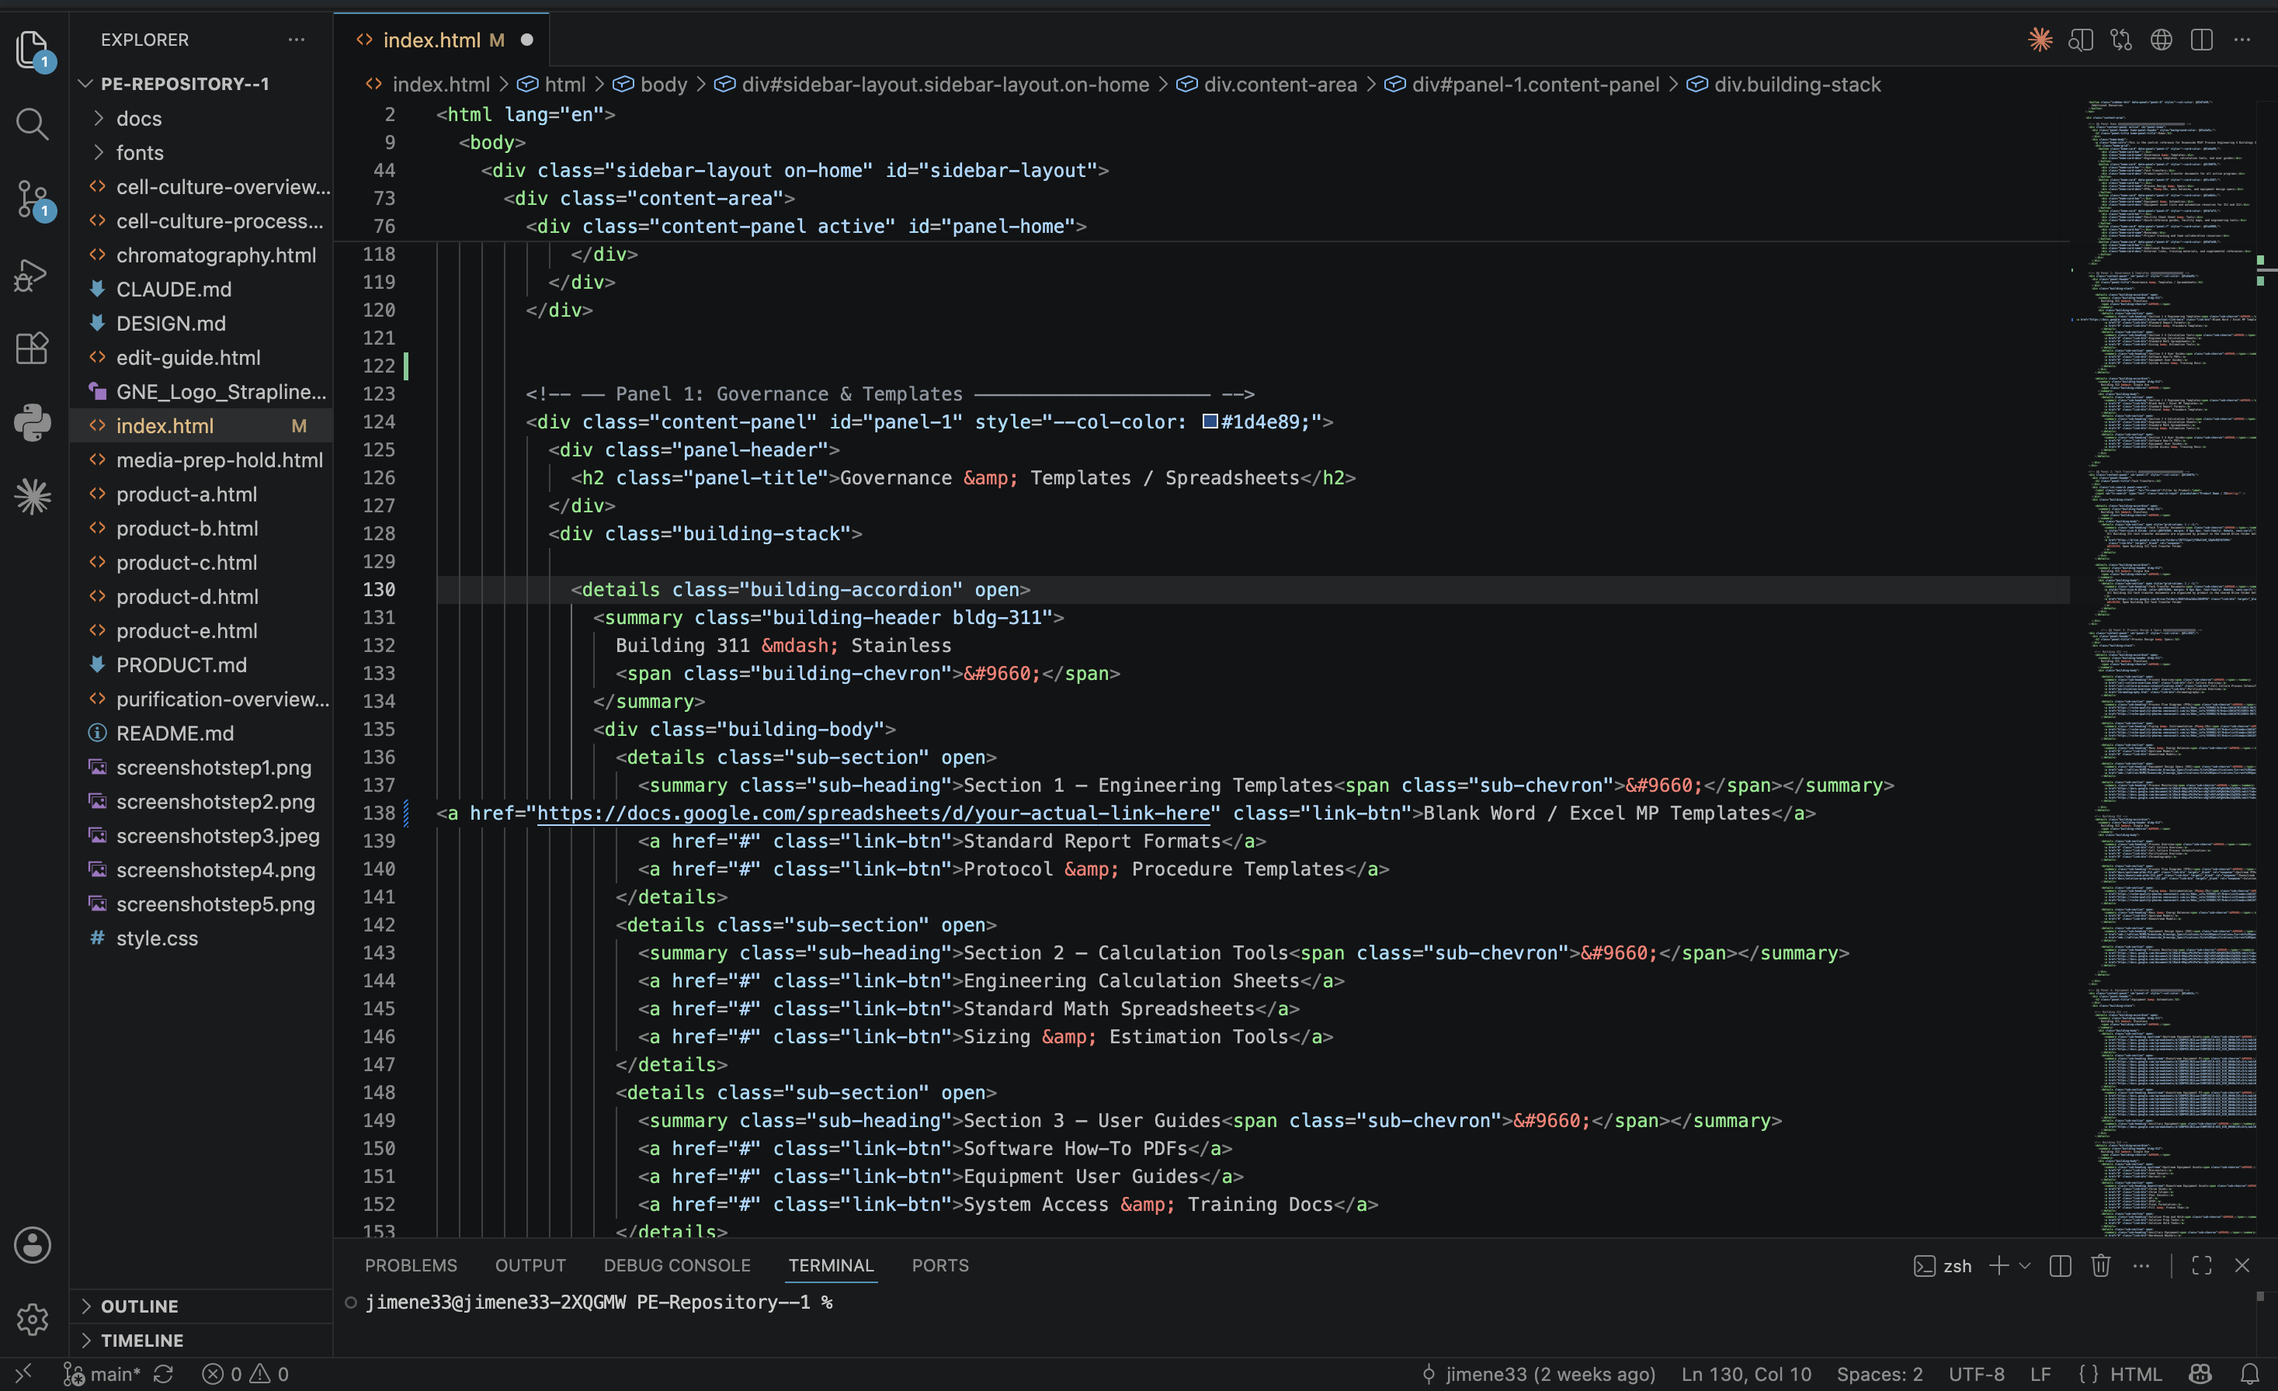
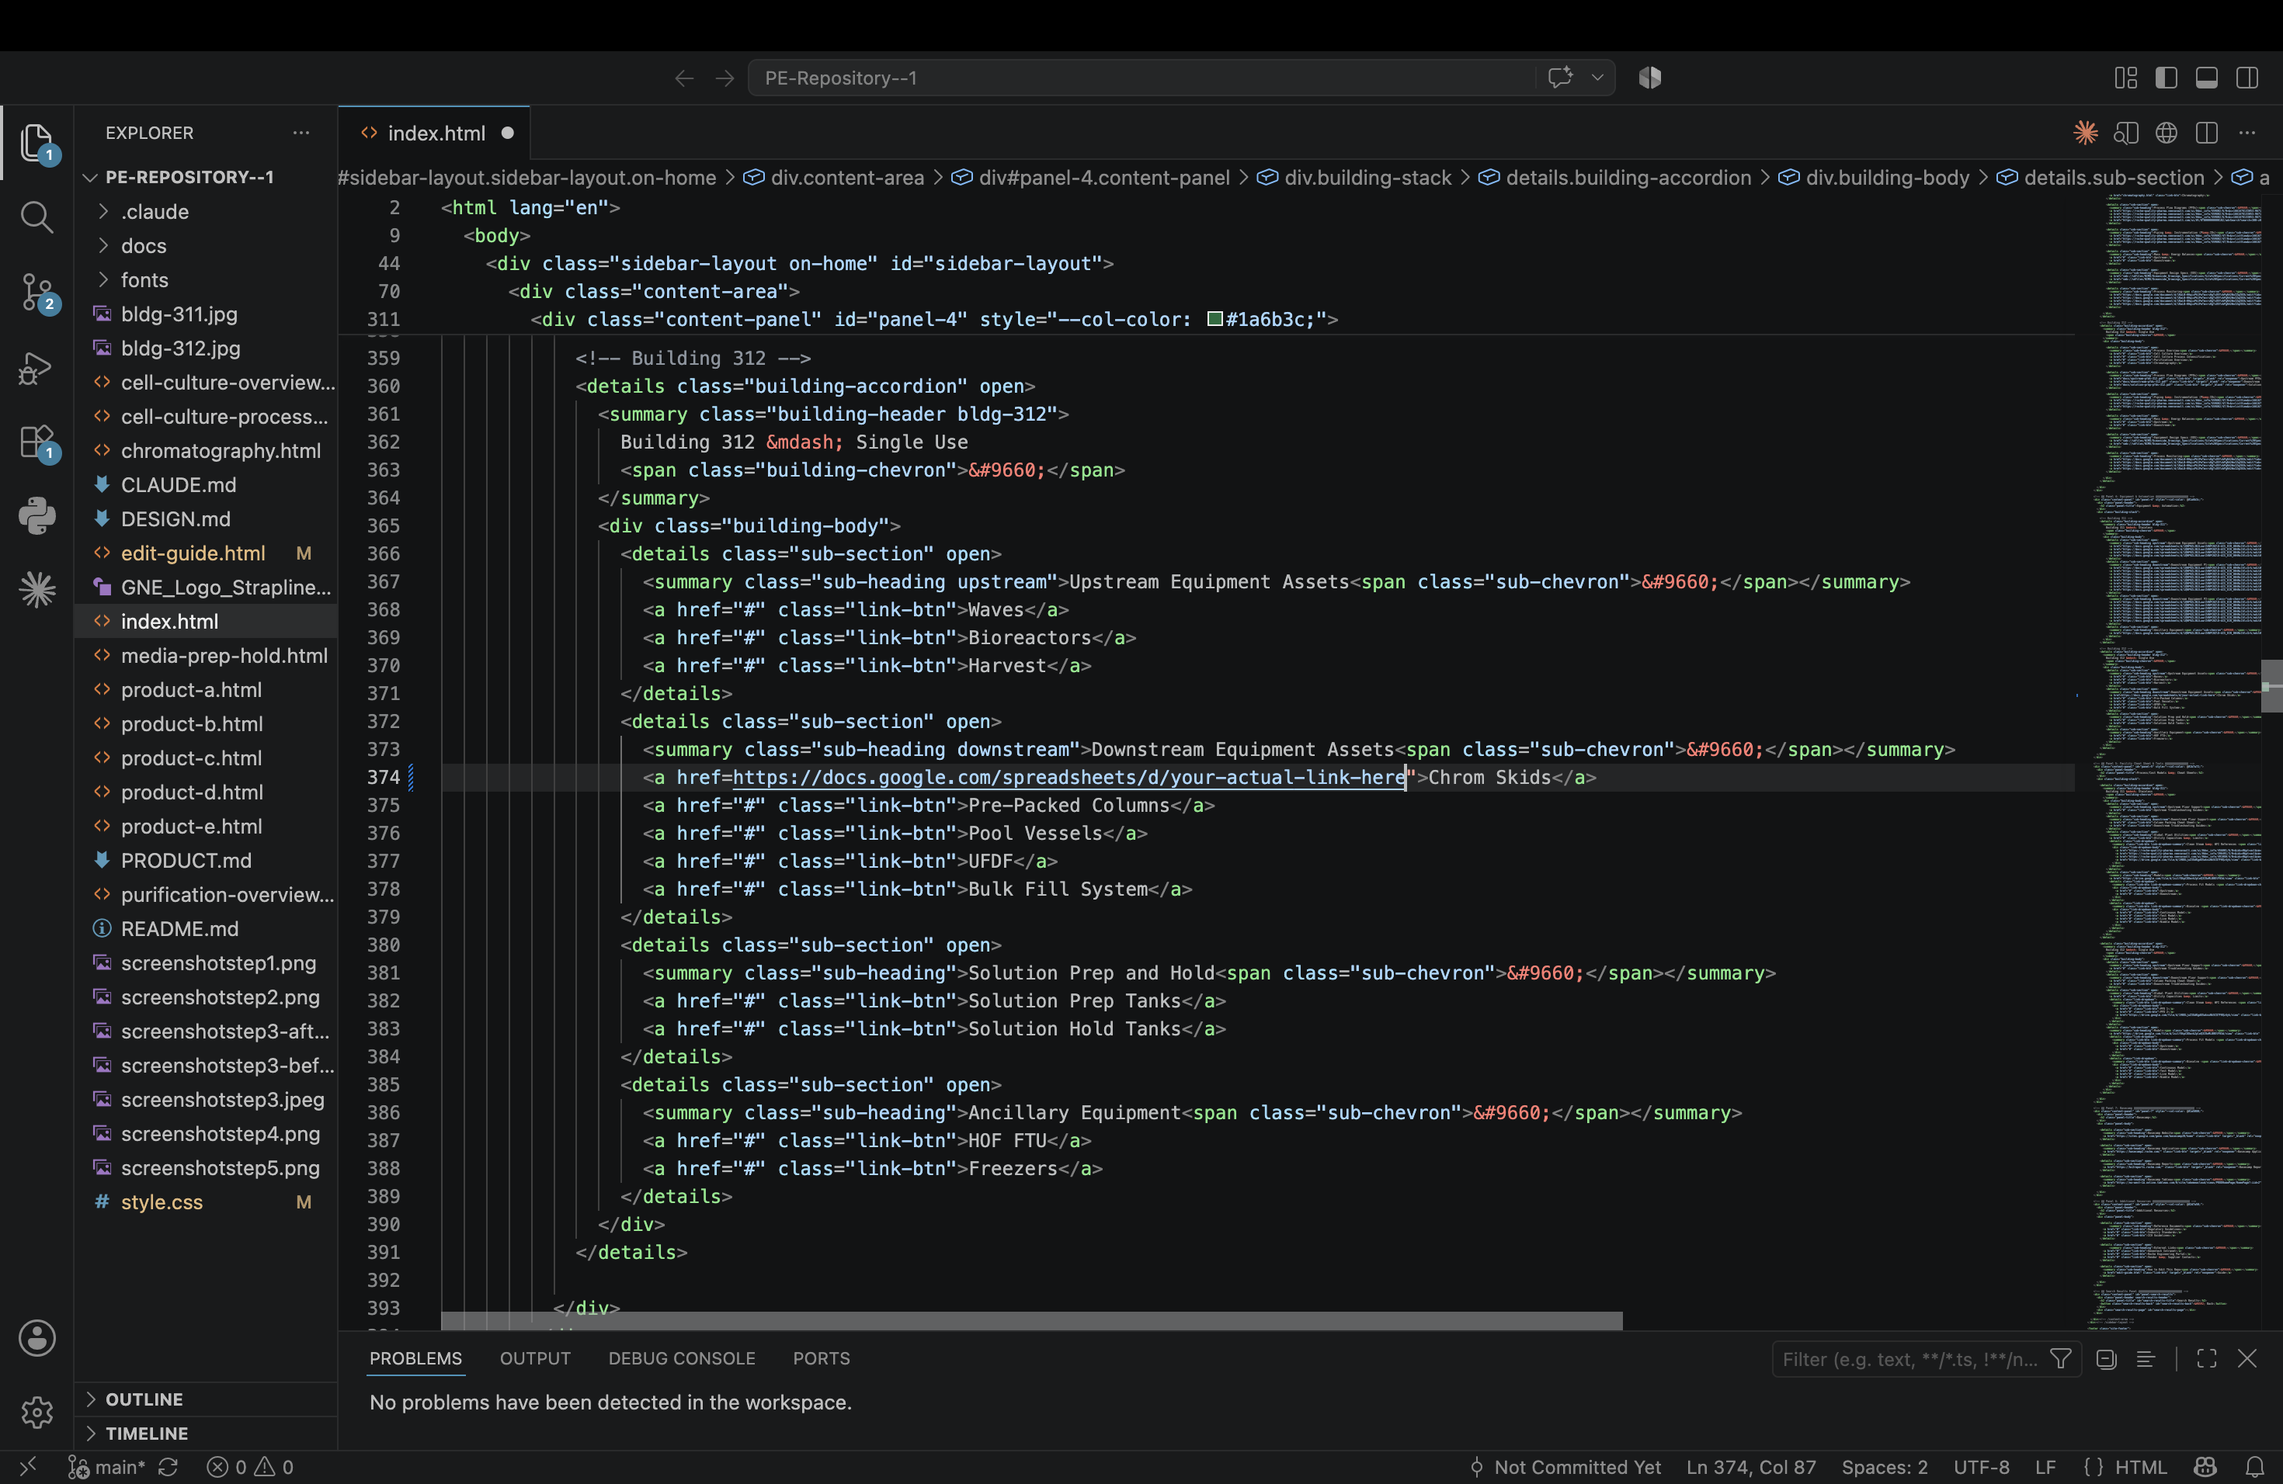
Annotate the edit guide screenshots and tighten the home page
The guide's screenshots showed the right screens but never pointed at
anything — a first-time editor had to match prose against a full VS
Code window. Every step now carries numbered rings and callouts.

The marks are HTML laid over the images, not painted into the PNGs, so
a shot can be re-taken without anyone redrawing annotations, and they
stay sharp at any zoom. Positions are percentages of the image, so
they track it as it scales. --mark (#d93a2b) is scoped to .guide-page:
it has to read on both the dark VS Code shots and the light browser
pane, which the guide's green cannot, and it stays out of the site's
panel-color system. Rings carry a white halo on both sides of the
stroke so they survive whatever they land on.

Steps 1, 2, 5, and 6 get numbered tags. The Step 3 before/after pair
renders at half width, where a tag would be wider than the shot it
sits on, so those carry rings only. Step 4 gains a zoomed crop of the
"after" shot — the tab strip alone — so it can point at the unsaved
dot it describes. Below 520px a tag is wider than the image it labels;
tags hide there and the rings still point at the right thing. Both
Step 3 screenshots re-shot.

Home page: the section band, photos, and intake line now clear the
fold on a 1080p screen. The photos are the biggest single block, so
they set the budget — clamp(320px, 36vh, 560px), down from
clamp(480px, 60vh, 820px). The crop and fade mask are both
percentage-based, so the framing holds across the new range. Page
[…]

diff --git a/edit-guide.html b/edit-guide.html
@@ -78,6 +78,107 @@
         color: #9aa0a6;
         margin: 12px 0;
       }
+
+      /* --- Screenshot annotations ----------------------------------------
+         The rings and labels are HTML laid over the images, not painted into
+         the PNGs — a screenshot can be re-shot without anyone redrawing
+         anything, and the marks stay sharp at any zoom. Every position is a
+         percentage of the image, so they track it as it scales.
+         --mark is an annotation-only colour scoped to this page. It has to
+         read on both the dark VS Code shots and the light browser pane, which
+         the guide's green cannot do. */
+      .guide-page { --mark: #d93a2b; }
+      .guide-shot {
+        position: relative;
+        display: block;
+        margin: 12px 0;
+        line-height: 0;
+      }
+      .guide-shot img {
+        width: 100%;
+        display: block;
+        border-radius: 6px;
+        border: 1px solid #dadce0;
+      }
+      .shot-mark {
+        position: absolute;
+        border: 3px solid var(--mark);
+        border-radius: 999px;
+        /* Halo on both sides of the stroke so the ring survives whatever it
+           lands on — dark editor chrome or a white page. */
+        box-shadow: 0 0 0 2px rgba(255, 255, 255, 0.45),
+                    inset 0 0 0 2px rgba(255, 255, 255, 0.45);
+      }
+      .shot-tag {
+        position: absolute;
+        white-space: nowrap;
+        background: var(--mark);
+        color: #fff;
+        font-size: 0.68rem;
+        font-weight: 600;
+        line-height: 1.35;
+        padding: 4px 9px 4px 5px;
+        border-radius: 4px;
+        box-shadow: 0 1px 5px rgba(0, 0, 0, 0.35);
+      }
+      .shot-tag b {
+        display: inline-block;
+        width: 15px;
+        height: 15px;
+        margin-right: 6px;
+        border-radius: 50%;
+        background: #fff;
+        color: var(--mark);
+        font-size: 0.62rem;
+        line-height: 15px;
+        text-align: center;
+        vertical-align: -2px;
+      }
+      .shot-tag code {
+        background: rgba(255, 255, 255, 0.22);
+        color: #fff;
+        font-size: 0.95em;
+        padding: 0 3px;
+      }
+      .shot-tag--right { left: calc(100% + 10px); top: 50%; transform: translateY(-50%); }
+      .shot-tag--below { left: 50%; top: calc(100% + 8px); transform: translateX(-50%); }
+      .shot-tag--above { left: 50%; bottom: calc(100% + 8px); transform: translateX(-50%); }
+      /* The before/after pair renders at half width; a tag there would be
+         wider than the shot it sits on, so those carry rings only. */
+      .guide-shot--sm { margin: 0; }
+      .guide-shot--sm .shot-mark { border-width: 2px; }
+      /* A zoomed crop of one corner of the "after" shot, so Step 4 can point
+         at the unsaved dot itself. The image is blown up and shifted so only
+         the editor tab is inside the frame: showing 11.22% of the width means
+         scaling to 1/0.1122 and offsetting by 0.1361/0.1122. The shot carries
+         window chrome above the tab strip, so it is shifted up as well — the
+         top offset is a share of the container height, not the image height.
+         aspect-ratio is that region's own proportions. */
+      .guide-shot--crop {
+        width: 100%;
+        max-width: 360px;
+        aspect-ratio: 3.14;
+        overflow: hidden;
+        border-radius: 6px;
+        border: 1px solid #dadce0;
+      }
+      .guide-shot--crop img {
+        position: absolute;
+        width: 891.3%;
+        left: -121.3%;
+        top: -104.8%;
+        border: 0;
+        border-radius: 0;
+      }
+      @media (max-width: 700px) {
+        .shot-tag { font-size: 0.6rem; padding: 3px 7px 3px 4px; }
+        .shot-tag b { width: 13px; height: 13px; line-height: 13px; margin-right: 4px; }
+      }
+      /* Below this a tag is wider than the image it labels. The rings alone
+         still point at the right thing. */
+      @media (max-width: 520px) {
+        .shot-tag { display: none; }
+      }
     </style>
   </head>
   <body>
@@ -102,14 +203,30 @@
         <h2>Step 1 — Open the folder in VS Code</h2>
         <p>Open VS Code. At the top menu, click <strong>File → Open Folder</strong>, then find and select the <code>PE-Repository-</code> folder. You'll see all the files listed in the left sidebar.</p>
         <p>Click on <code>index.html</code> in the sidebar to open it. This is the file that controls everything you see on the site.</p>
-        <img src="screenshotstep1.png" alt="VS Code with index.html open" style="width:100%;border-radius:6px;border:1px solid #dadce0;margin:12px 0;display:block;" />
+        <div class="guide-shot">
+          <img src="screenshotstep1.png" alt="VS Code with index.html open" />
+          <span class="shot-mark" style="left:4.4%;top:33.2%;width:6.4%;height:3.6%;">
+            <span class="shot-tag shot-tag--right"><b>1</b> Click <code>index.html</code></span>
+          </span>
+          <span class="shot-mark" style="left:22.2%;top:7.2%;width:8.2%;height:3.4%;">
+            <span class="shot-tag shot-tag--right"><b>2</b> It opens in this tab</span>
+          </span>
+        </div>
       </div>
 
       <div class="guide-section">
         <h2>Step 2 — Find the button you want to update</h2>
         <p>Press <strong>Cmd+F</strong> (Mac) or <strong>Ctrl+F</strong> (Windows) to open the search bar. Type the exact name of the button you want to update — for example, <em>Bioreactors</em>. VS Code will jump to that line in the code.</p>
         <p>You'll see something like this next to it: <code>href="#"</code>. The <code>#</code> is a placeholder — it means the button doesn't go anywhere yet.</p>
-        <img src="screenshotstep2.png" alt="Finding a button in the code" style="width:100%;border-radius:6px;border:1px solid #dadce0;margin:12px 0;display:block;" />
+        <div class="guide-shot">
+          <img src="screenshotstep2.png" alt="Finding a button in the code" />
+          <span class="shot-mark" style="left:62.6%;top:10.4%;width:16.0%;height:4.0%;">
+            <span class="shot-tag shot-tag--below"><b>1</b> Cmd+F, then type the button name</span>
+          </span>
+          <span class="shot-mark" style="left:29.0%;top:49.0%;width:9.6%;height:3.0%;">
+            <span class="shot-tag shot-tag--below"><b>2</b> The link lives inside <code>href="…"</code></span>
+          </span>
+        </div>
       </div>
 
       <div class="guide-section">
@@ -121,11 +238,17 @@ After:   href="https://your-sharepoint-or-google-link-here"</pre>
         <div style="display:grid;grid-template-columns:1fr 1fr;gap:16px;margin:12px 0;">
           <div>
             <div style="font-size:0.75rem;font-weight:700;text-transform:uppercase;letter-spacing:0.07em;color:#5f6368;margin-bottom:6px;">Before</div>
-            <img src="screenshotstep3-before.png" alt="Before — placeholder link with #" style="width:100%;border-radius:6px;border:1px solid #dadce0;display:block;" />
+            <div class="guide-shot guide-shot--sm">
+              <img src="screenshotstep3-before.png" alt="Before — placeholder link with #" />
+              <span class="shot-mark" style="left:29.5%;top:54.6%;width:4.0%;height:1.9%;"></span>
+            </div>
           </div>
           <div>
             <div style="font-size:0.75rem;font-weight:700;text-transform:uppercase;letter-spacing:0.07em;color:#2d7a50;margin-bottom:6px;">After</div>
-            <img src="screenshotstep3-after.png" alt="After — real URL in place of #" style="width:100%;border-radius:6px;border:1px solid #dadce0;display:block;" />
+            <div class="guide-shot guide-shot--sm">
+              <img src="screenshotstep3-after.png" alt="After — real URL in place of #" />
+              <span class="shot-mark" style="left:29.5%;top:51.4%;width:32.0%;height:1.9%;"></span>
+            </div>
           </div>
         </div>
       </div>
@@ -133,7 +256,11 @@ After:   href="https://your-sharepoint-or-google-link-here"</pre>
       <div class="guide-section">
         <h2>Step 4 — Save the file</h2>
         <p>Press <strong>Cmd+S</strong> (Mac) or <strong>Ctrl+S</strong> (Windows) to save. You'll know it worked because the small dot on the <code>index.html</code> tab at the top disappears.</p>
-        <p>Don't skip this step — if you push without saving, your change won't be included.</p>
+        <div class="guide-shot guide-shot--crop">
+          <img src="screenshotstep3-after.png" alt="The index.html tab showing an unsaved-changes dot" />
+          <span class="shot-mark" style="left:73.6%;top:46.7%;width:7.3%;height:22.9%;"></span>
+        </div>
+        <p style="margin-top:10px;">Don't skip this step — if you push without saving, your change won't be included.</p>
       </div>
 
       <div class="guide-section">
@@ -144,13 +271,26 @@ After:   href="https://your-sharepoint-or-google-link-here"</pre>
 git commit -m "brief description of your change"
 git push origin main</pre>
         <p>For the commit message, replace <em>"brief description of your change"</em> with something short that describes what you updated, like <em>"add bioreactor link"</em>. Keep the quotation marks.</p>
-        <img src="screenshotstep4.png" alt="Terminal showing git commands being run" style="width:100%;border-radius:6px;border:1px solid #dadce0;margin:12px 0;display:block;" />
+        <div class="guide-shot">
+          <img src="screenshotstep4.png" alt="Terminal showing git commands being run" />
+          <span class="shot-mark" style="left:22.5%;top:61.5%;width:5.2%;height:3.2%;">
+            <span class="shot-tag shot-tag--above"><b>1</b> Terminal → New Terminal opens this</span>
+          </span>
+          <span class="shot-mark" style="left:3.8%;top:64.9%;width:31.5%;height:6.1%;">
+            <span class="shot-tag shot-tag--right"><b>2</b> Type these three, Enter after each</span>
+          </span>
+        </div>
       </div>
 
       <div class="guide-section">
         <h2>Step 6 — Confirm it's live</h2>
         <p>Go to the GitHub repo page. Your change should appear at the very top of the file list with the message you wrote. The live site will update within a few seconds.</p>
-        <img src="screenshotstep5.png" alt="GitHub repo showing the latest commit" style="width:100%;border-radius:6px;border:1px solid #dadce0;margin:12px 0;display:block;" />
+        <div class="guide-shot">
+          <img src="screenshotstep5.png" alt="GitHub repo showing the latest commit" />
+          <span class="shot-mark" style="left:21.5%;top:36.8%;width:30.8%;height:3.8%;">
+            <span class="shot-tag shot-tag--below"><b>1</b> Your message, with a green check next to it</span>
+          </span>
+        </div>
       </div>
 
     </main>

diff --git a/style.css b/style.css
@@ -1001,7 +1001,7 @@ p {
      drift out of step. */
   --home-fade: 300ms cubic-bezier(0.4, 0, 0.2, 1);
 
-  padding: 40px 60px 0;
+  padding: 28px 60px 0;
   width: 100%;
   box-sizing: border-box;
   display: flex;
@@ -1026,9 +1026,12 @@ p {
   position: relative;
   /* Scales with the viewport so the page fills a tall monitor instead of
      stopping short, but stays within a fixed range so the photos never
-     dominate a laptop screen or shrink to a strip. Tall enough that the whole
-     building clears the fade above it — see the mask note below. */
-  height: clamp(480px, 60vh, 820px);
+     dominate a laptop screen or shrink to a strip. Sized so the whole home
+     page — band, photos, intake line — clears the fold on a 1080p screen;
+     the photos are the biggest single block, so they set that budget. The
+     crop and the mask below are both percentage-based, so the framing holds
+     at any height in this range. */
+  height: clamp(320px, 36vh, 560px);
   overflow: hidden;
   /* The photos dissolve into the page rather than sitting in a hard box.
      Eased rather than linear — the extra stops put a soft knee at each end so
@@ -1069,7 +1072,7 @@ p {
    quiet line of body text rather than a button — submitting is a rare,
    secondary action and shouldn't compete with the section band above it. */
 .home-suggest {
-  margin: 26px 0 38px;
+  margin: 18px 0 26px;
   font-size: 0.875rem;
   color: var(--text-medium);
   text-align: center;
@@ -1117,18 +1120,18 @@ p {
   /* Band spacing. Edit these; the rules and hover segments follow.
      Each row carries the same padding above and below its text, so the two
      bands read as a matched pair rather than one tall block split unevenly. */
-  --band-pad-top: 34px;
-  --band-pad-bottom: 34px;
+  --band-pad-top: 24px;
+  --band-pad-bottom: 24px;
   --col-gutter: 30px;
-  --row-pad-top: 34px;
-  --row-pad-bottom: 34px;
+  --row-pad-top: 24px;
+  --row-pad-bottom: 24px;
   /* How far the entries are held off the page edge. Narrower than the 60px
      the rest of the home page uses, so each entry's column — and the hover
      segment that spans it — runs longer. */
   --band-inset: 36px;
   /* Page background between the two bands. This is the only place the rows
      are separated by empty space rather than a rule. */
-  --row-gap: 26px;
+  --row-gap: 20px;
 
   /* Distance from an entry's edge out to the rule it should light up. Both
      default to the band's own border; per-row overrides swap in that row's
